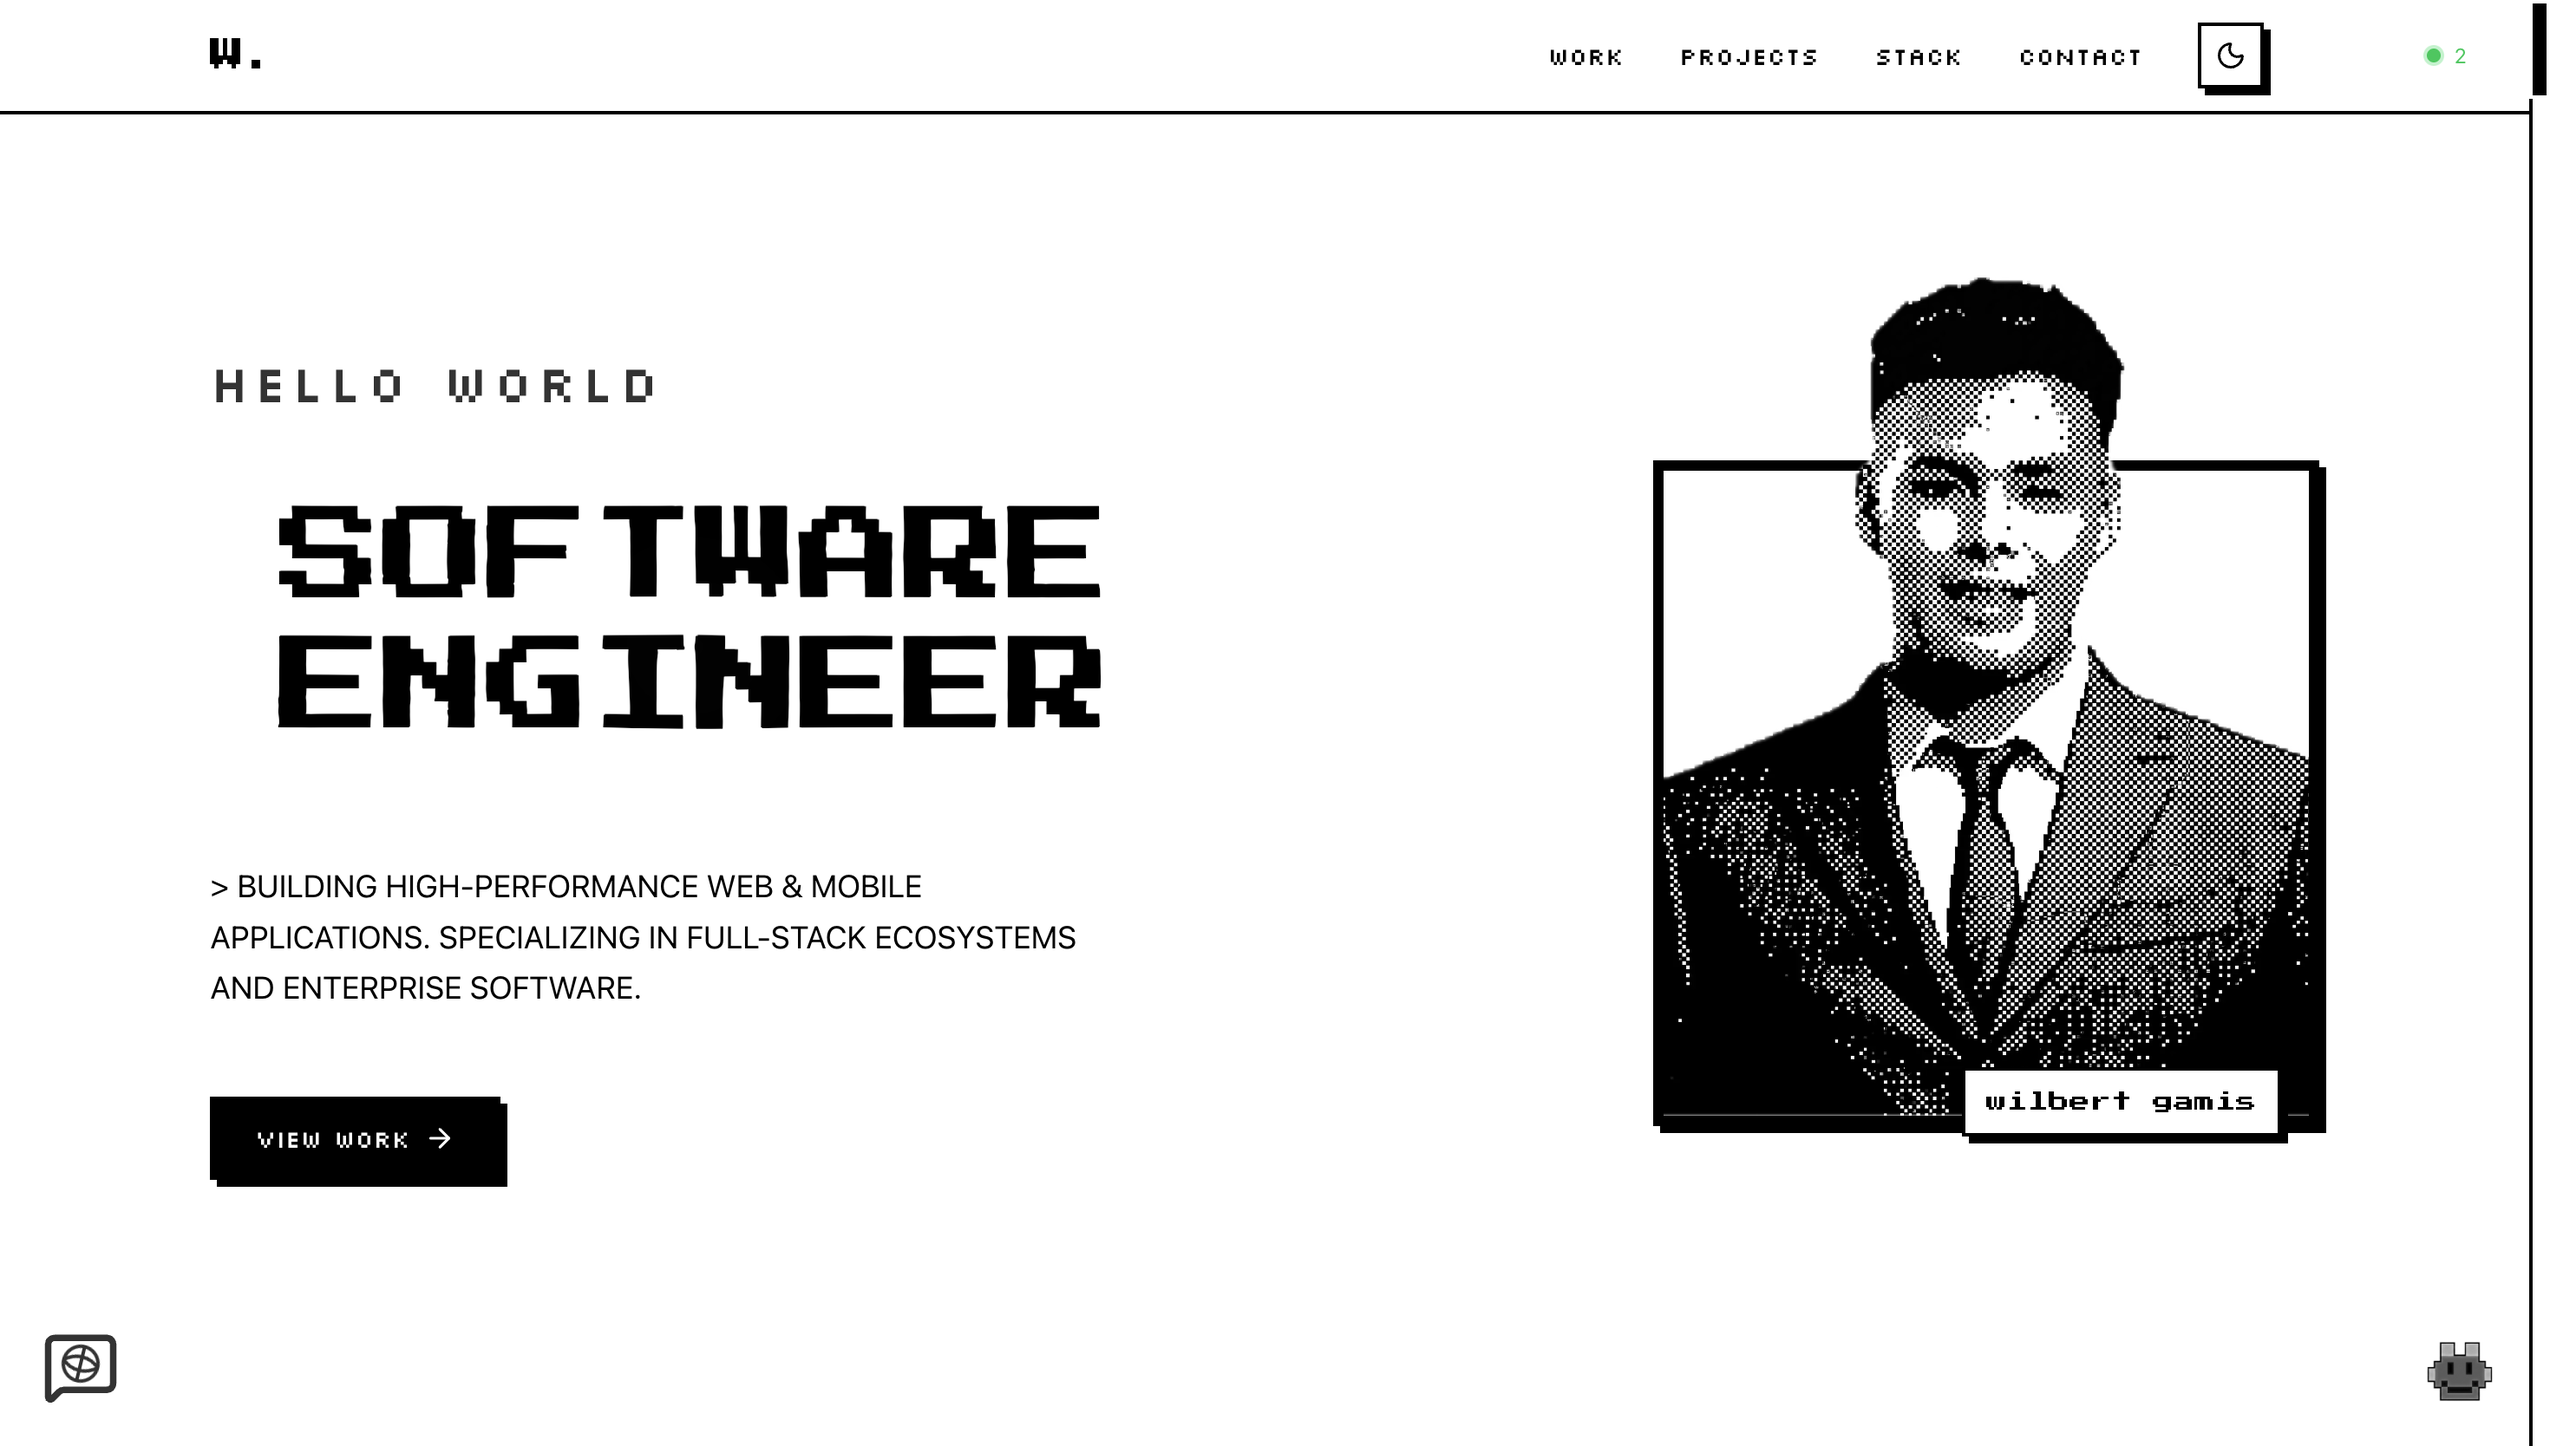
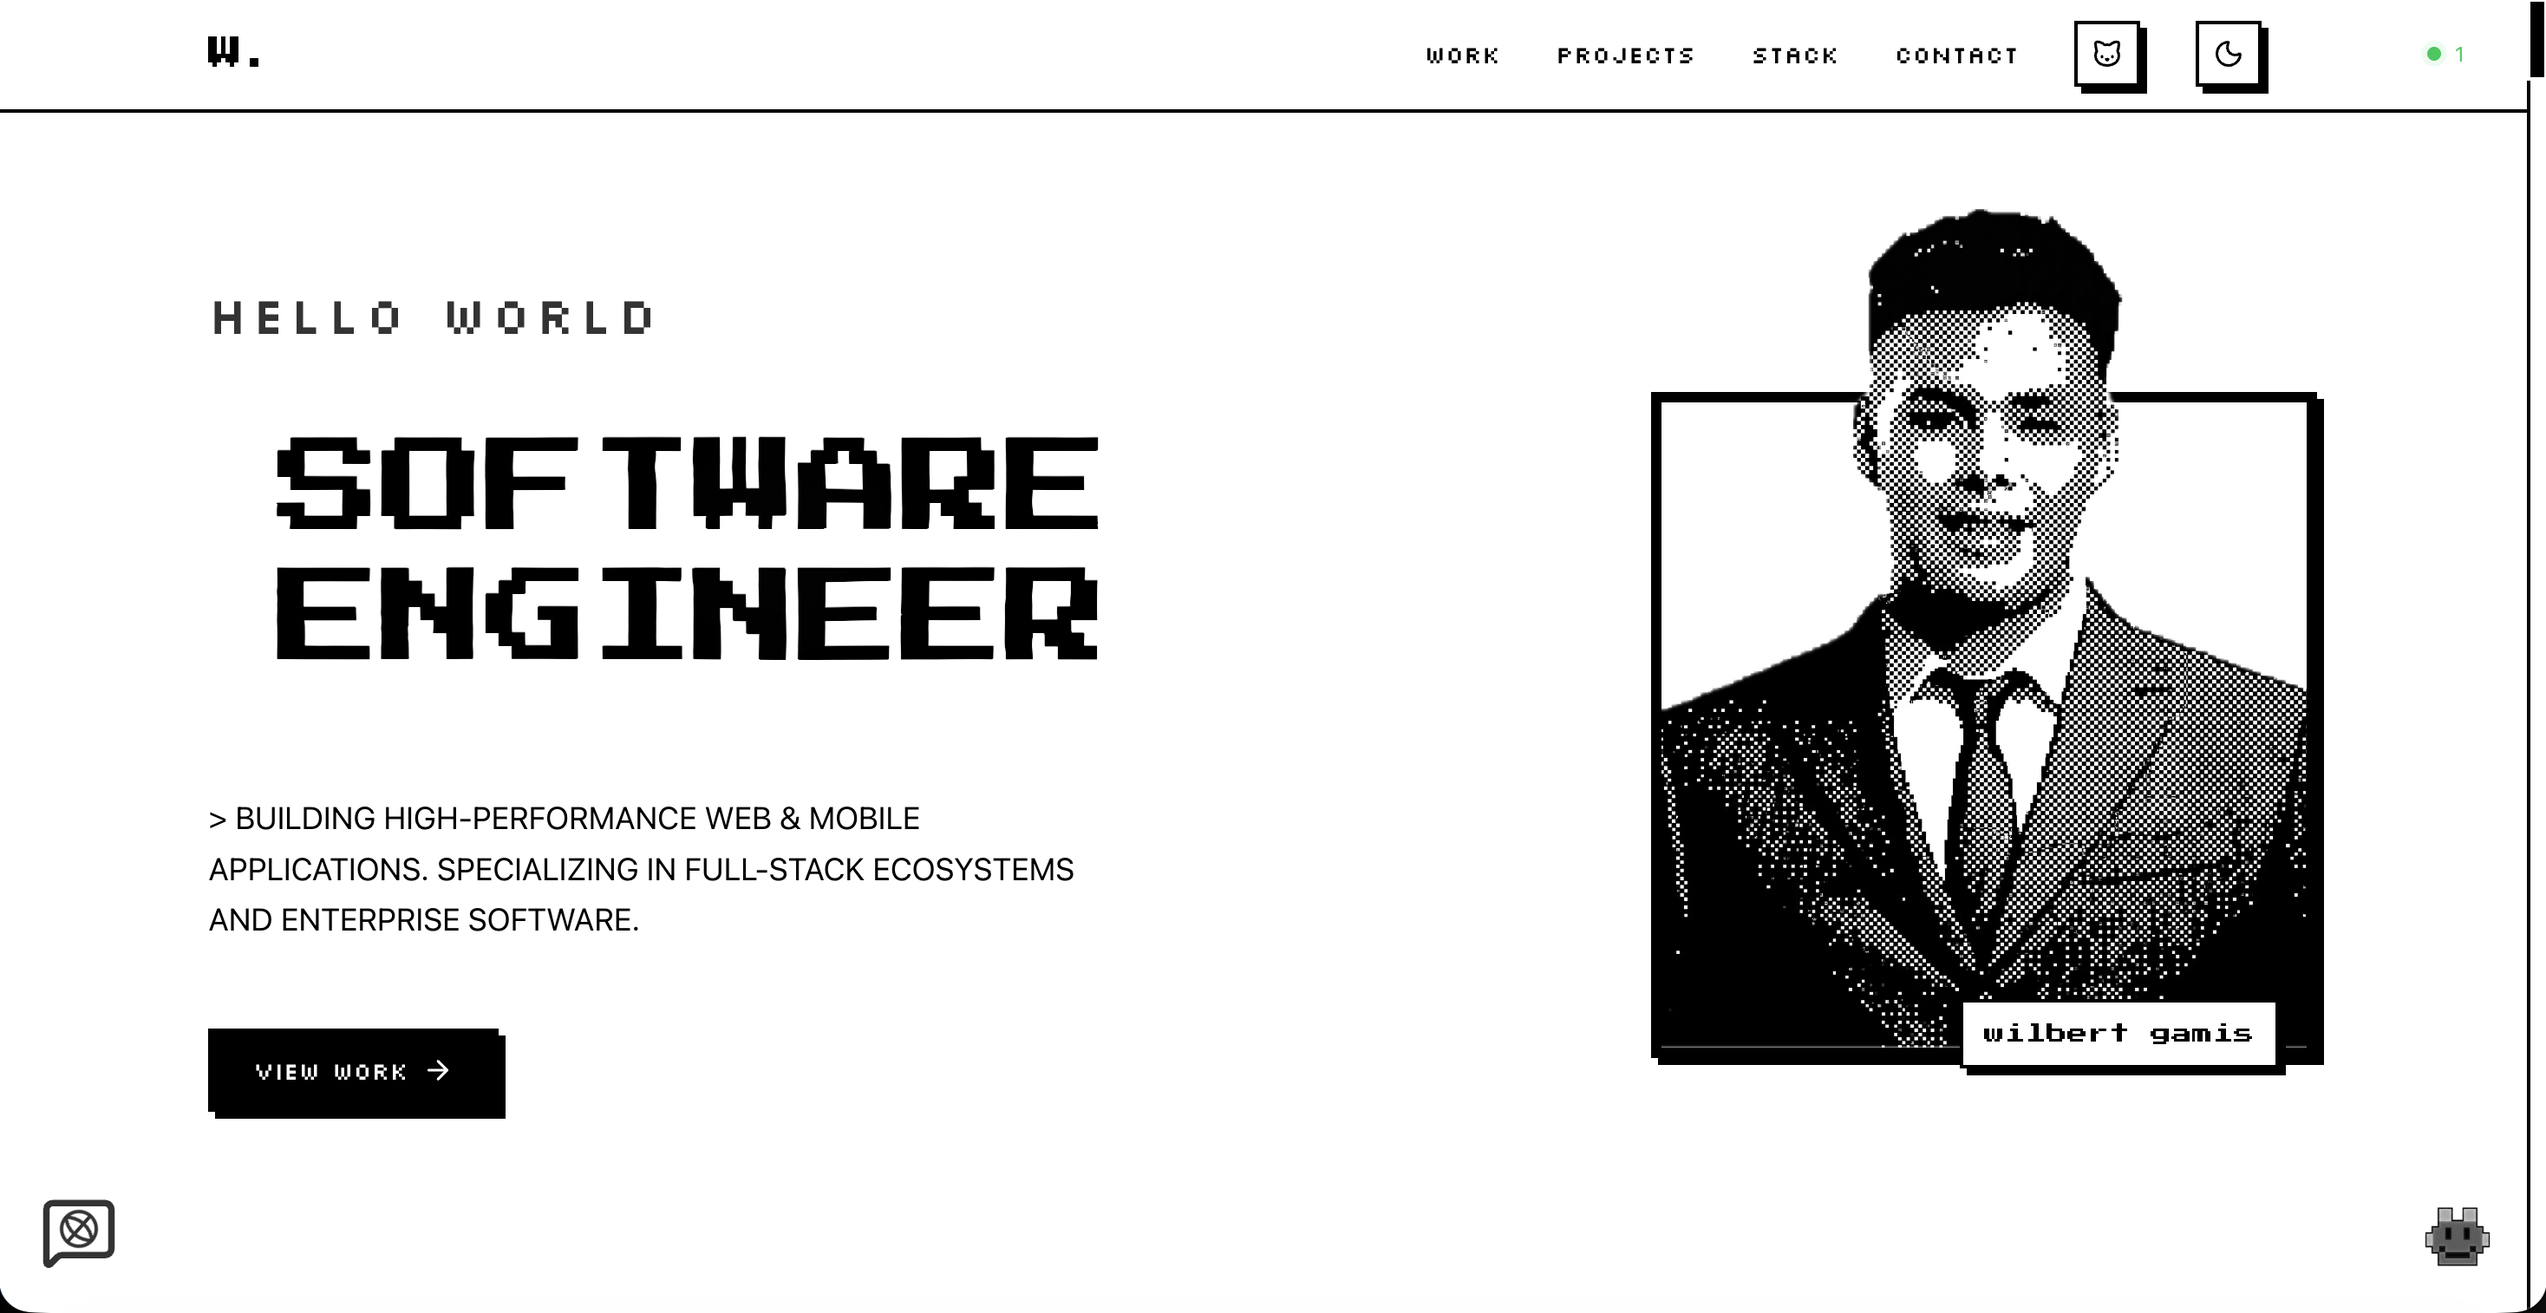
feat(portfolio): update portfolio image and enhance global chat game and widget

diff --git a/app/components/global-chat-widget.tsx b/app/components/global-chat-widget.tsx
@@ -299,28 +299,20 @@ export default function GlobalChatWidget() {
         }
       });
 
-    // Keep-alive heartbeat and tab visibility handler for Safari
-    const trackPresence = () => {
-      if (channelReadyRef.current && presenceChannel) {
-        presenceChannel.track({
-          user_id: sessionInfo.id,
-          username: sessionInfo.username,
-          ...sharedPresenceRef.current
-        });
-      }
-    };
-    
-    const heartbeat = setInterval(trackPresence, 15000); // 15s keepalive
-
     const handleVisibility = () => {
       if (document.visibilityState === 'visible') {
-        trackPresence();
+        if (channelReadyRef.current && presenceChannel) {
+          presenceChannel.track({
+            user_id: sessionInfo.id,
+            username: sessionInfo.username,
+            ...sharedPresenceRef.current
+          });
+        }
       }
     };
     document.addEventListener('visibilitychange', handleVisibility);
 
     return () => {
-      clearInterval(heartbeat);
       document.removeEventListener('visibilitychange', handleVisibility);
       channelReadyRef.current = false;
       supabase.removeChannel(presenceChannel);
@@ -664,42 +656,40 @@ export default function GlobalChatWidget() {
       </div>
 
       {/* Game Canvas */}
-      <AnimatePresence>
-        {isOpen && isSetupComplete && (
-          <div className="fixed top-0 left-0 w-full h-[50vh] md:w-auto md:h-auto md:-translate-x-0 md:top-auto md:left-auto md:bottom-4 md:right-4 z-50 pointer-events-none">
-            <style>
-              {`
-                @media (min-width: 768px) {
-                  .desktop-game-mask {
-                    -webkit-mask-image: radial-gradient(closest-side at 50% 50%, black 85%, transparent 100%), linear-gradient(to right, transparent, black 15%, black 85%, transparent), linear-gradient(to bottom, transparent, black 15%, black 85%, transparent);
-                    -webkit-mask-composite: source-in;
-                    mask-image: radial-gradient(closest-side at 50% 50%, black 85%, transparent 100%), linear-gradient(to right, transparent, black 15%, black 85%, transparent), linear-gradient(to bottom, transparent, black 15%, black 85%, transparent);
-                    mask-composite: intersect;
-                  }
+      {isSetupComplete && (
+        <div className="fixed top-0 left-0 w-full h-[50vh] md:w-auto md:h-auto md:-translate-x-0 md:top-auto md:left-auto md:bottom-4 md:right-4 z-50 pointer-events-none">
+          <style>
+            {`
+              @media (min-width: 768px) {
+                .desktop-game-mask {
+                  -webkit-mask-image: radial-gradient(closest-side at 50% 50%, black 85%, transparent 100%), linear-gradient(to right, transparent, black 15%, black 85%, transparent), linear-gradient(to bottom, transparent, black 15%, black 85%, transparent);
+                  -webkit-mask-composite: source-in;
+                  mask-image: radial-gradient(closest-side at 50% 50%, black 85%, transparent 100%), linear-gradient(to right, transparent, black 15%, black 85%, transparent), linear-gradient(to bottom, transparent, black 15%, black 85%, transparent);
+                  mask-composite: intersect;
                 }
-              `}
-            </style>
-            <motion.div
-              initial={{ opacity: 0, scale: 0.9, filter: "blur(10px)" }}
-              animate={{ opacity: 1, scale: 1, filter: "blur(0px)" }}
-              exit={{ opacity: 0, scale: 0.9, filter: "blur(10px)" }}
-              transition={{ duration: 0.4, ease: "easeOut", delay: 0.1 }}
-              className="w-full h-full md:w-[650px] md:h-[650px] pointer-events-auto overflow-hidden bg-white rounded-none md:rounded-[100px] shadow-none md:shadow-[0_0_30px_10px_rgba(255,255,255,0.8)] md:dark:shadow-[0_0_30px_10px_rgba(0,0,0,0.8)] dark:bg-black border-none"
-            >
-              <div className="w-full h-full desktop-game-mask">
-                <GlobalChatGame
-                  sessionInfo={sessionInfo}
-                  channelRef={channelRef}
-                  channelReadyRef={channelReadyRef}
-                  sharedPresenceRef={sharedPresenceRef}
-                  onlinePlayers={onlinePlayers}
-                  messages={messages}
-                />
-              </div>
-            </motion.div>
-          </div>
-        )}
-      </AnimatePresence>
+              }
+            `}
+          </style>
+          <motion.div
+            initial={false}
+            animate={isOpen ? { opacity: 1, scale: 1, filter: "blur(0px)" } : { opacity: 0, scale: 0.9, filter: "blur(10px)" }}
+            transition={{ duration: 0.4, ease: "easeOut" }}
+            className={`w-full h-full md:w-[650px] md:h-[650px] ${isOpen ? 'pointer-events-auto' : 'pointer-events-none'} overflow-hidden bg-white rounded-none md:rounded-[100px] shadow-none md:shadow-[0_0_30px_10px_rgba(255,255,255,0.8)] md:dark:shadow-[0_0_30px_10px_rgba(0,0,0,0.8)] dark:bg-black border-none`}
+          >
+            <div className="w-full h-full desktop-game-mask">
+              <GlobalChatGame
+                sessionInfo={sessionInfo}
+                channelRef={channelRef}
+                channelReadyRef={channelReadyRef}
+                sharedPresenceRef={sharedPresenceRef}
+                onlinePlayers={onlinePlayers}
+                messages={messages}
+                isOpen={isOpen}
+              />
+            </div>
+          </motion.div>
+        </div>
+      )}
     </>
   );
 }

diff --git a/app/components/global-chat-game.tsx b/app/components/global-chat-game.tsx
@@ -322,7 +322,7 @@ const MAPS: Record<string, MapConfig> = {
 
 
 
-export default function GlobalChatGame({ sessionInfo, channelRef, channelReadyRef, sharedPresenceRef, onlinePlayers, messages = [] }: GlobalChatGameProps) {
+export default function GlobalChatGame({ sessionInfo, channelRef, channelReadyRef, sharedPresenceRef, onlinePlayers, messages = [], isOpen = true }: GlobalChatGameProps) {
   // Local Player State
   const [isPlaying, setIsPlaying] = useState(false);
   const [localSpriteState, setLocalSpriteState] = useState({ flipX: false, isWalking: false });
@@ -1385,7 +1385,7 @@ export default function GlobalChatGame({ sessionInfo, channelRef, channelReadyRe
       });
       // --- END MAP PETS UPDATE ---
 
-      requestAnimationFrame(gameLoop);
+      animationFrameId = requestAnimationFrame(gameLoop);
     };
 
     animationFrameId = requestAnimationFrame(gameLoop);
@@ -1393,11 +1393,14 @@ export default function GlobalChatGame({ sessionInfo, channelRef, channelReadyRe
     return () => {
       cancelAnimationFrame(animationFrameId);
     };
-  }, [isPlaying, sessionInfo, channelRef, channelReadyRef, sharedPresenceRef]);
+  }, [isPlaying, sessionInfo.id, sessionInfo.username, channelRef, channelReadyRef, sharedPresenceRef]);
 
   // Input Listeners
   useEffect(() => {
-    if (!isPlaying) return;
+    if (!isPlaying || !isOpen) {
+      keysPressed.current = {};
+      return;
+    }
 
     const handleKeyDown = (e: KeyboardEvent) => {
       // Ignore if typing in an input
@@ -1416,7 +1419,7 @@ export default function GlobalChatGame({ sessionInfo, channelRef, channelReadyRe
       window.removeEventListener('keydown', handleKeyDown);
       window.removeEventListener('keyup', handleKeyUp);
     };
-  }, [isPlaying]);
+  }, [isPlaying, isOpen]);
 
   if (!isPlaying) {
     return (
